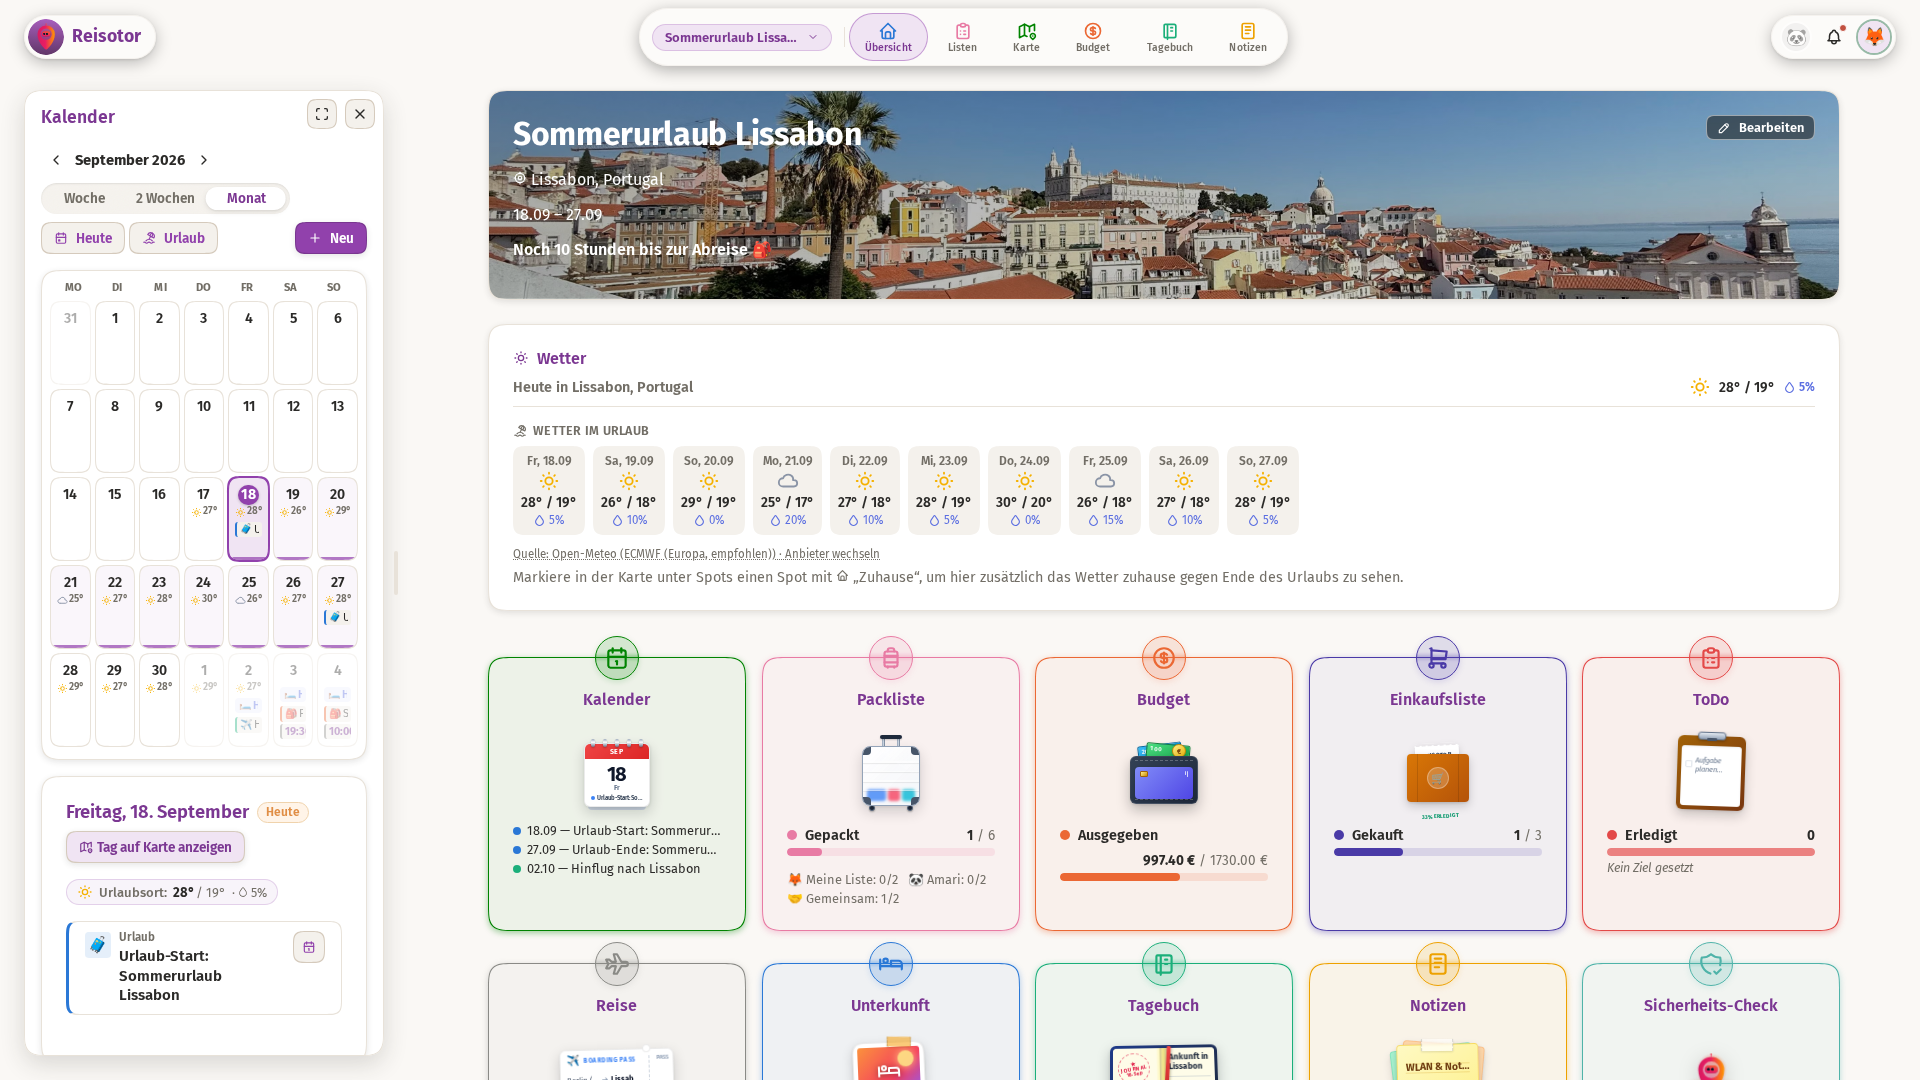
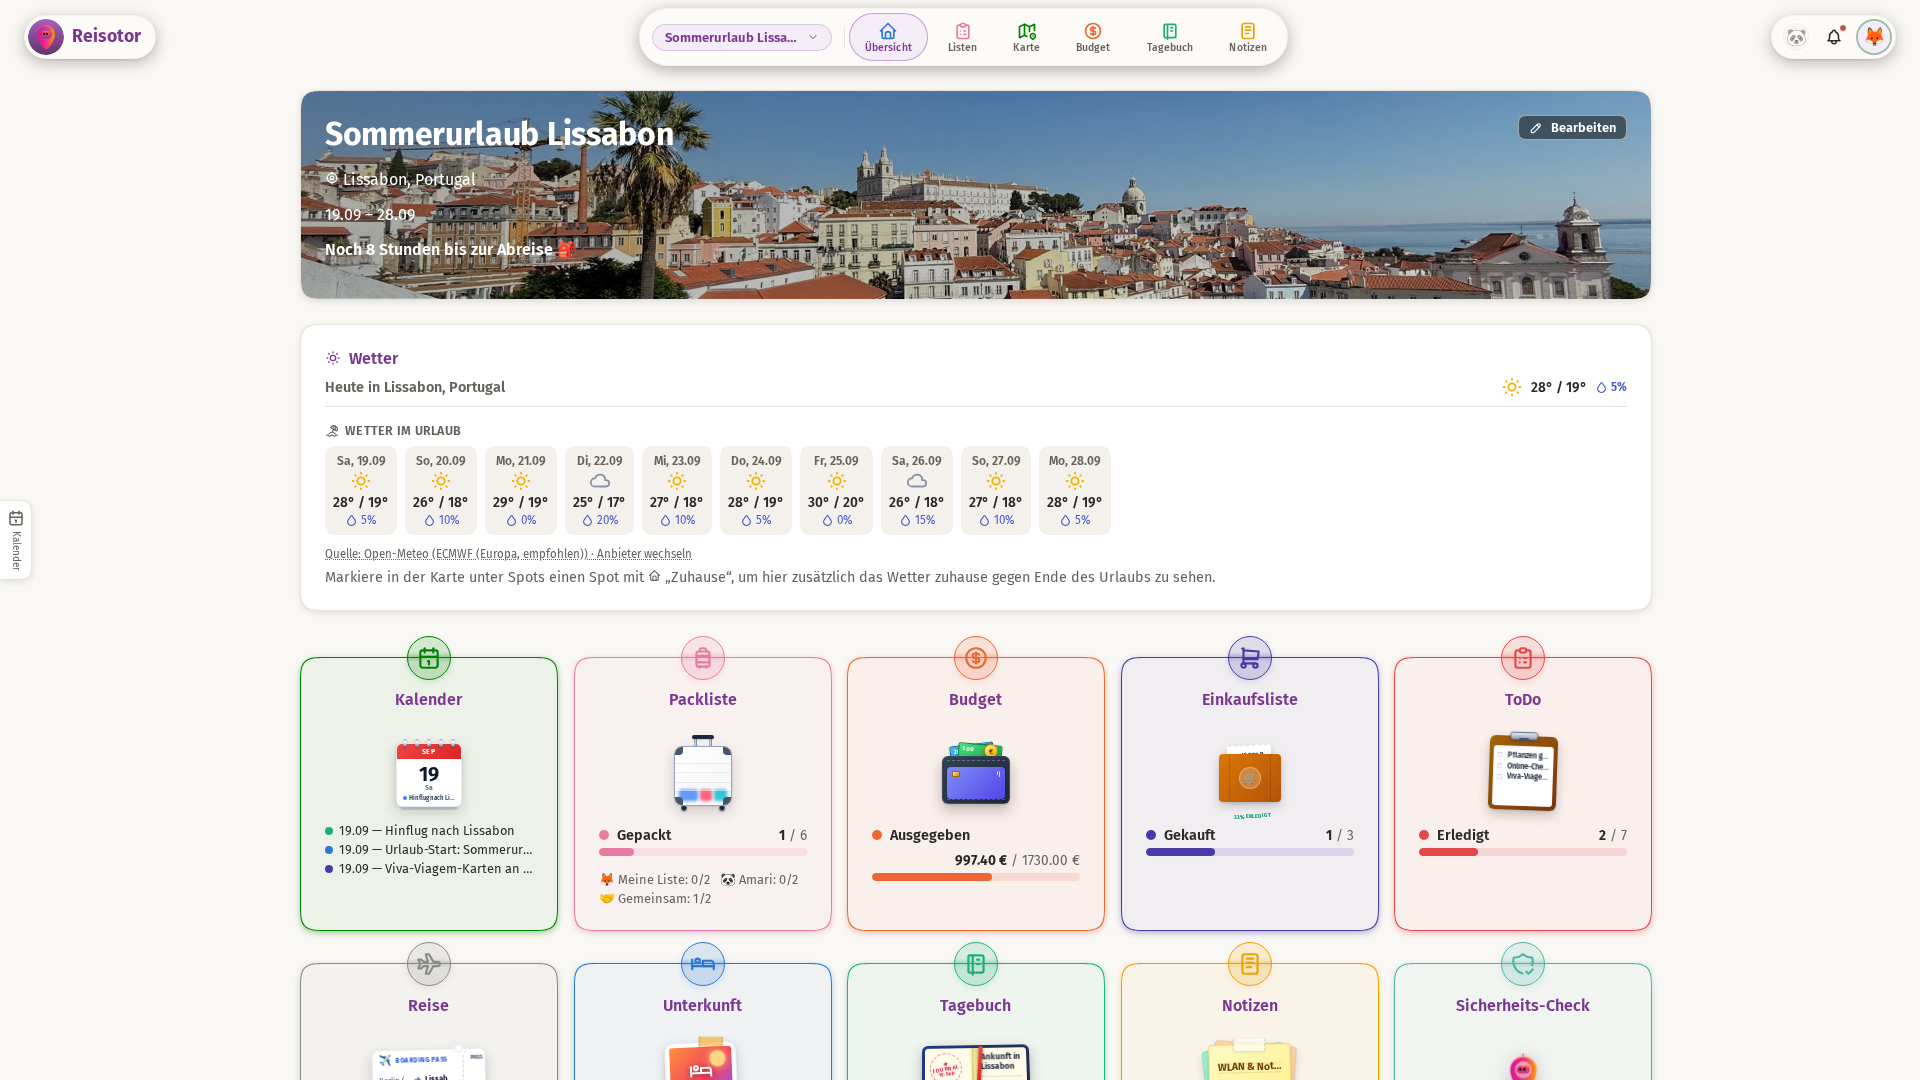
test(screenshots): show closed calendar on dashboard and open drawer with todo list in calendar view

diff --git a/e2e/tests/tools/generate-baseline-screenshots.manual.spec.ts b/e2e/tests/tools/generate-baseline-screenshots.manual.spec.ts
@@ -215,20 +215,84 @@ test.describe('Generate Clean Production Baseline Screenshots (Full HD)', () => 
         });
       });
 
+      // 3. Intercept todos API calls to ensure due dates match current screenshot timeline (relative to today)
+      await page.route('**/api/todos*', async (route) => {
+        const response = await route.fetch();
+        const json = await response.json();
+        const today = new Date();
+        const fmtDate = (days: number) => {
+          const d = new Date(today);
+          d.setDate(d.getDate() + days);
+          return d.toISOString().slice(0, 10);
+        };
+        if (Array.isArray(json)) {
+          for (const item of json) {
+            if (item.title.includes('Reisepässe')) {
+              item.due_date = fmtDate(-7);
+            } else if (item.title.includes('Auslandskrankenversicherung')) {
+              item.due_date = fmtDate(-4);
+            } else if (item.title.includes('Pflanzen')) {
+              item.due_date = fmtDate(0);
+            } else if (item.title.includes('Check-in')) {
+              item.due_date = fmtDate(0);
+            } else if (item.title.includes('Viva-Viagem')) {
+              item.due_date = fmtDate(1);
+            } else if (item.title.includes('Mosteiro')) {
+              item.due_date = fmtDate(2);
+            } else if (item.title.includes('Pastéis')) {
+              item.due_date = fmtDate(8);
+            }
+          }
+        }
+        await route.fulfill({ json });
+      });
+
+      // 4. Intercept schedule API calls so items align directly within trip days (today .. today + 9)
+      await page.route('**/api/schedule*', async (route) => {
+        const response = await route.fetch();
+        const json = await response.json();
+        const today = new Date();
+        const fmtDate = (days: number) => {
+          const d = new Date(today);
+          d.setDate(d.getDate() + days);
+          return d.toISOString().slice(0, 10);
+        };
+        if (Array.isArray(json)) {
+          for (const item of json) {
+            if (item.title.includes('Hinflug')) {
+              item.date = fmtDate(0);
+            } else if (
+              item.title.includes('Time Out Market') ||
+              item.title.includes('Panoramatour')
+            ) {
+              item.date = fmtDate(1);
+            } else if (item.title.includes('Belém')) {
+              item.date = fmtDate(2);
+            } else if (item.title.includes('Sintra')) {
+              item.date = fmtDate(5);
+            } else if (item.title.includes('Rückflug')) {
+              item.date = fmtDate(9);
+            }
+          }
+        }
+        await route.fulfill({ json });
+      });
+
       for (const vp of VIEWPORTS) {
         await page.setViewportSize({ width: vp.width, height: vp.height });
         await forceFontDisplayBlock(page);
 
         // Pre-configure localStorage before navigation:
-        // - Close calendar drawer on all non-dashboard desktop views to avoid visual redundancy (Requirement R2)
-        // - Open calendar drawer on dashboard
+        // - Close calendar drawer on all desktop views except calendar (including dashboard)
+        // - Open calendar drawer on calendar view on desktop, pulled to 1/3 screen width (640px)
         // - Set spots drawer width to half of viewport on desktop (960px for 1920px Full HD) for all spots/tour views
         await page.addInitScript(
           ({ slug, isDesktop }) => {
-            if (slug !== 'dashboard') {
-              localStorage.setItem('reisotor-drawer-calendar-open', 'false');
-            } else {
+            if (slug === 'calendar' && isDesktop) {
               localStorage.setItem('reisotor-drawer-calendar-open', 'true');
+              localStorage.setItem('reisotor-drawer-calendar-width', '640');
+            } else {
+              localStorage.setItem('reisotor-drawer-calendar-open', 'false');
             }
             if (isDesktop && (slug === 'spots' || slug === 'tour')) {
               localStorage.setItem('reisotor-spots-col-width', '960');
@@ -239,12 +303,14 @@ test.describe('Generate Clean Production Baseline Screenshots (Full HD)', () => 
           { slug: view.slug, isDesktop: vp.name === 'desktop' }
         );
 
-        await page.goto(view.path);
+        const targetPath =
+          view.slug === 'calendar' && vp.name === 'desktop' ? '/listen?tab=todo' : view.path;
+        await page.goto(targetPath);
         await waitForAppReady(page);
         await waitForMapTiles(page);
 
-        // Ensure Calendar drawer is closed on non-dashboard desktop views if it was already open
-        if (vp.name === 'desktop' && view.slug !== 'dashboard') {
+        // Ensure Calendar drawer is closed on non-calendar desktop views if it was already open
+        if (vp.name === 'desktop' && view.slug !== 'calendar') {
           const calendarTab = page.locator('.drawer-tab[aria-label*="Kalender"]');
           if (
             (await calendarTab.count()) > 0 &&
@@ -253,6 +319,20 @@ test.describe('Generate Clean Production Baseline Screenshots (Full HD)', () => 
             await calendarTab.click();
             await page.waitForTimeout(300);
           }
+        }
+
+        // Ensure Calendar drawer is open on desktop calendar screenshot and wait for content
+        if (vp.name === 'desktop' && view.slug === 'calendar') {
+          const calendarTab = page.locator('.drawer-tab[aria-label*="Kalender"]');
+          if (
+            (await calendarTab.count()) > 0 &&
+            (await calendarTab.getAttribute('aria-expanded')) !== 'true'
+          ) {
+            await calendarTab.click();
+            await page.waitForTimeout(300);
+          }
+          await page.locator('.drawer-panel').waitFor({ state: 'visible', timeout: 15_000 });
+          await page.locator('.todo-page').waitFor({ state: 'visible', timeout: 15_000 });
         }
 
         // Spots / Tour view specific preparation: wait for spots drawer & map container to be visible

diff --git a/backend/src/db/seedDemo.ts b/backend/src/db/seedDemo.ts
@@ -242,6 +242,82 @@ insertShopping.run(tripId, 'Sonnencreme', user2.id, 0, null, null, 'dm', 'before
 insertShopping.run(tripId, 'Reiseführer Lissabon', user1.id, 1, null, null, null, 'before');
 insertShopping.run(tripId, 'Postkarten', null, 0, null, null, null, 'during');
 
+// --- ToDo-Liste ---
+const insertTodo = db.prepare(
+  `INSERT INTO todo_items (trip_id, title, assigned_to_user_id, due_date, period, priority, note, done)
+   VALUES (?, ?, ?, ?, ?, ?, ?, ?)`
+);
+insertTodo.run(
+  tripId,
+  'Reisepässe auf Gültigkeit prüfen',
+  user1.id,
+  fmt(addDays(startDate, -7)),
+  'before',
+  'high',
+  'Muss mind. 6 Monate über das Rückreisedatum hinaus gültig sein',
+  1
+);
+insertTodo.run(
+  tripId,
+  'Auslandskrankenversicherung abschließen',
+  user2.id,
+  fmt(addDays(startDate, -5)),
+  'before',
+  'medium',
+  'Versicherungsschein als PDF unter Dokumente hinterlegen',
+  1
+);
+insertTodo.run(
+  tripId,
+  'Online-Check-in für Hinflug durchführen',
+  user1.id,
+  fmt(addDays(startDate, -1)),
+  'before',
+  'high',
+  'Öffnet 24 Stunden vor Abflug auf der Airline-Website',
+  0
+);
+insertTodo.run(
+  tripId,
+  'Pflanzen gießen & Nachbarn Schlüssel geben',
+  user2.id,
+  fmt(addDays(startDate, -1)),
+  'before',
+  'high',
+  'Blumen auf dem Balkon gießen und Briefkasten leeren',
+  0
+);
+insertTodo.run(
+  tripId,
+  'Viva-Viagem-Karten an Metrostation aufladen',
+  null,
+  fmt(addDays(startDate, 1)),
+  'during',
+  'medium',
+  'Am Fahrkartenautomaten am Flughafen oder Rossio-Bahnhof',
+  0
+);
+insertTodo.run(
+  tripId,
+  'Tickets für Mosteiro dos Jerónimos vorab buchen',
+  user1.id,
+  fmt(addDays(startDate, 2)),
+  'during',
+  'medium',
+  'Zeitfenster-Tickets sichern, um langes Anstehen zu vermeiden',
+  0
+);
+insertTodo.run(
+  tripId,
+  'Pastéis de Belém frisch für die Familie besorgen',
+  user2.id,
+  fmt(addDays(endDate, -1)),
+  'during',
+  'low',
+  'Am Abreisetag frisch in der Antiga Confeitaria de Belém holen',
+  0
+);
+
 // --- Ausflugsideen & Spots (Karte) ---
 const insertSpot = db.prepare(
   `INSERT INTO spots (trip_id, title, image_url, category, note, maps_link, lat, lng, address, created_by)
@@ -633,5 +709,5 @@ db.prepare(
 );
 
 console.log(
-  `Demo-Seed abgeschlossen: Trip "${tripId}" mit Unterkunft, Reise, Kalender, Packliste, Einkaufsliste, Ausflug/Spots, Budget, Tagebuch und Notiz angelegt.`
+  `Demo-Seed abgeschlossen: Trip "${tripId}" mit Unterkunft, Reise, Kalender, Packliste, ToDo-Liste, Einkaufsliste, Ausflug/Spots, Budget, Tagebuch und Notiz angelegt.`
 );

diff --git a/frontend/src/demo/demoData.ts b/frontend/src/demo/demoData.ts
@@ -656,22 +656,79 @@ export const DEMO_TODOS: TodoItem[] = [
   {
     id: 1,
     trip_id: 1,
-    title: 'Wohnung gießen lassen',
+    title: 'Reisepässe auf Gültigkeit prüfen',
     assigned_to_user_id: 1,
-    due_date: addDays(2),
+    due_date: addDays(-4),
+    period: 'before',
     priority: 'high',
-    note: null,
-    done: 0,
+    note: 'Muss mind. 6 Monate über das Rückreisedatum hinaus gültig sein',
+    done: 1,
   },
   {
     id: 2,
     trip_id: 1,
-    title: 'Reisepässe prüfen',
+    title: 'Auslandskrankenversicherung abschließen',
     assigned_to_user_id: 2,
-    due_date: addDays(1),
+    due_date: addDays(-2),
+    period: 'before',
     priority: 'medium',
-    note: null,
+    note: 'Versicherungsschein als PDF unter Dokumente hinterlegen',
     done: 1,
+  },
+  {
+    id: 3,
+    trip_id: 1,
+    title: 'Online-Check-in für Hinflug durchführen',
+    assigned_to_user_id: 1,
+    due_date: addDays(0),
+    period: 'before',
+    priority: 'high',
+    note: 'Öffnet 24 Stunden vor Abflug auf der Airline-Website',
+    done: 0,
+  },
+  {
+    id: 4,
+    trip_id: 1,
+    title: 'Pflanzen gießen & Nachbarn Schlüssel geben',
+    assigned_to_user_id: 2,
+    due_date: addDays(0),
+    period: 'before',
+    priority: 'high',
+    note: 'Blumen auf dem Balkon gießen und Briefkasten leeren',
+    done: 0,
+  },
+  {
+    id: 5,
+    trip_id: 1,
+    title: 'Viva-Viagem-Karten an Metrostation aufladen',
+    assigned_to_user_id: null,
+    due_date: addDays(1),
+    period: 'during',
+    priority: 'medium',
+    note: 'Am Fahrkartenautomaten am Flughafen oder Rossio-Bahnhof',
+    done: 0,
+  },
+  {
+    id: 6,
+    trip_id: 1,
+    title: 'Tickets für Mosteiro dos Jerónimos vorab buchen',
+    assigned_to_user_id: 1,
+    due_date: addDays(2),
+    period: 'during',
+    priority: 'medium',
+    note: 'Zeitfenster-Tickets sichern, um langes Anstehen zu vermeiden',
+    done: 0,
+  },
+  {
+    id: 7,
+    trip_id: 1,
+    title: 'Pastéis de Belém frisch für die Familie besorgen',
+    assigned_to_user_id: 2,
+    due_date: addDays(8),
+    period: 'during',
+    priority: 'low',
+    note: 'Am Abreisetag frisch in der Antiga Confeitaria de Belém holen',
+    done: 0,
   },
 ];
 

diff --git a/README.md b/README.md
@@ -43,7 +43,7 @@ Web-App zur gemeinsamen Reiseplanung – ein zentraler Ort für alles rund um De
 <p align="center">
   <picture>
     <source media="(prefers-color-scheme: dark)" srcset="./docs/screenshots/calendar-desktop-dark.png">
-    <img src="./docs/screenshots/calendar-desktop-light.png" alt="Reisotor Kalender-Wochenansicht" width="100%" style="border-radius: 8px;" />
+    <img src="./docs/screenshots/calendar-desktop-light.png" alt="Reisotor Kalender-Schublade & ToDo-Verknüpfung" width="100%" style="border-radius: 8px;" />
   </picture>
 </p>
 </details>
